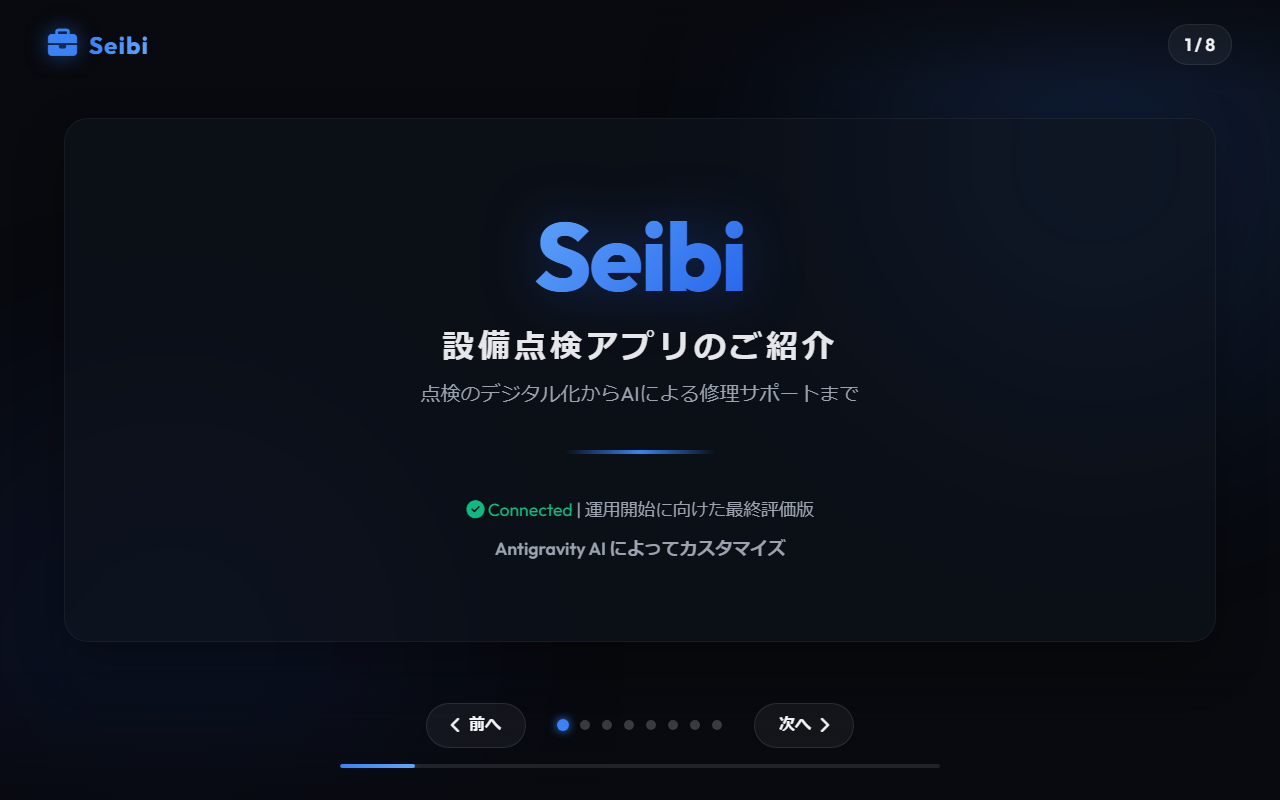
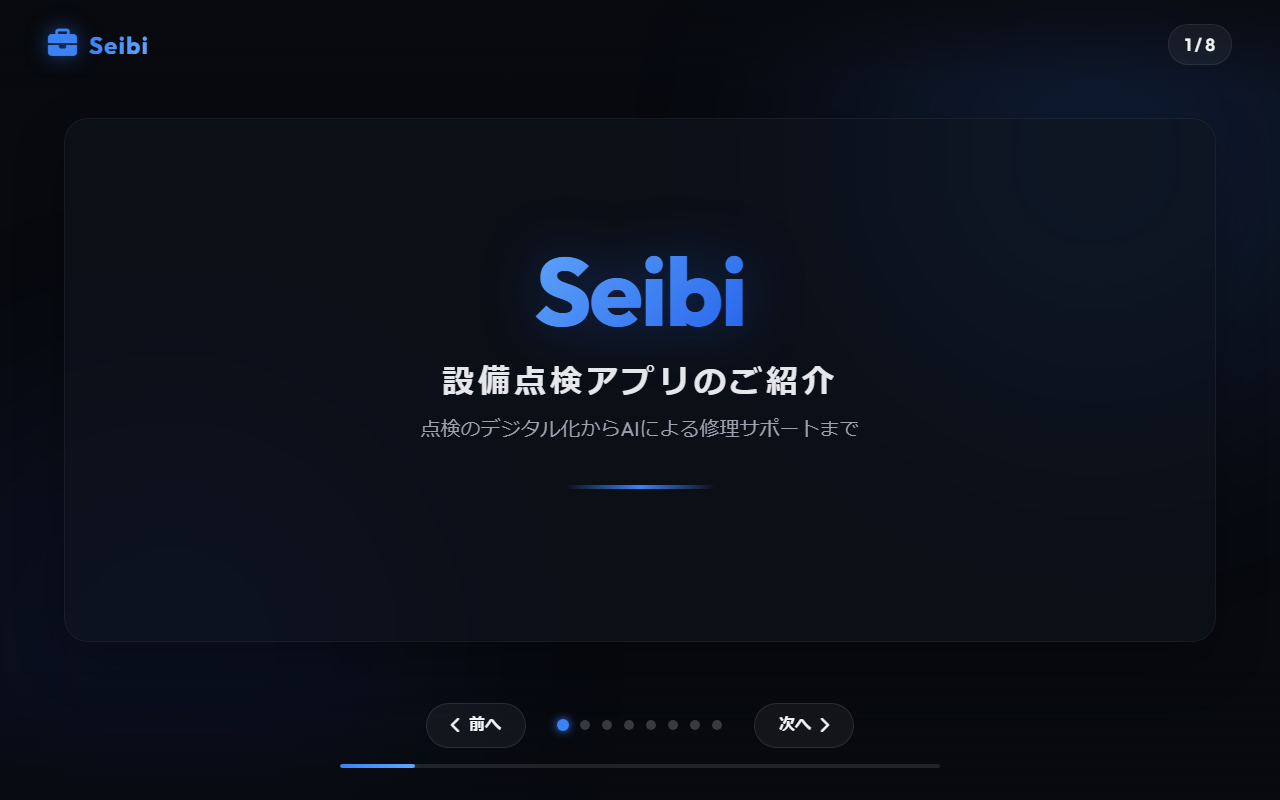
Remove Slide 1 meta-info/connected footer

Changed region(s): [[0.3438, 0.2812, 0.6562, 0.7188]]

diff --git a/index.html b/index.html
@@ -44,11 +44,6 @@
         <p class="description-text">点検のデジタル化からAIによる修理サポートまで</p>
         
         <div class="divider"></div>
-        
-        <div class="meta-info">
-          <p><span class="accent-color-green"><i class="fa-solid fa-circle-check"></i> Connected</span> | 運用開始に向けた最終評価版</p>
-          <p class="author">Antigravity AI によってカスタマイズ</p>
-        </div>
       </div>
     </section>
 
